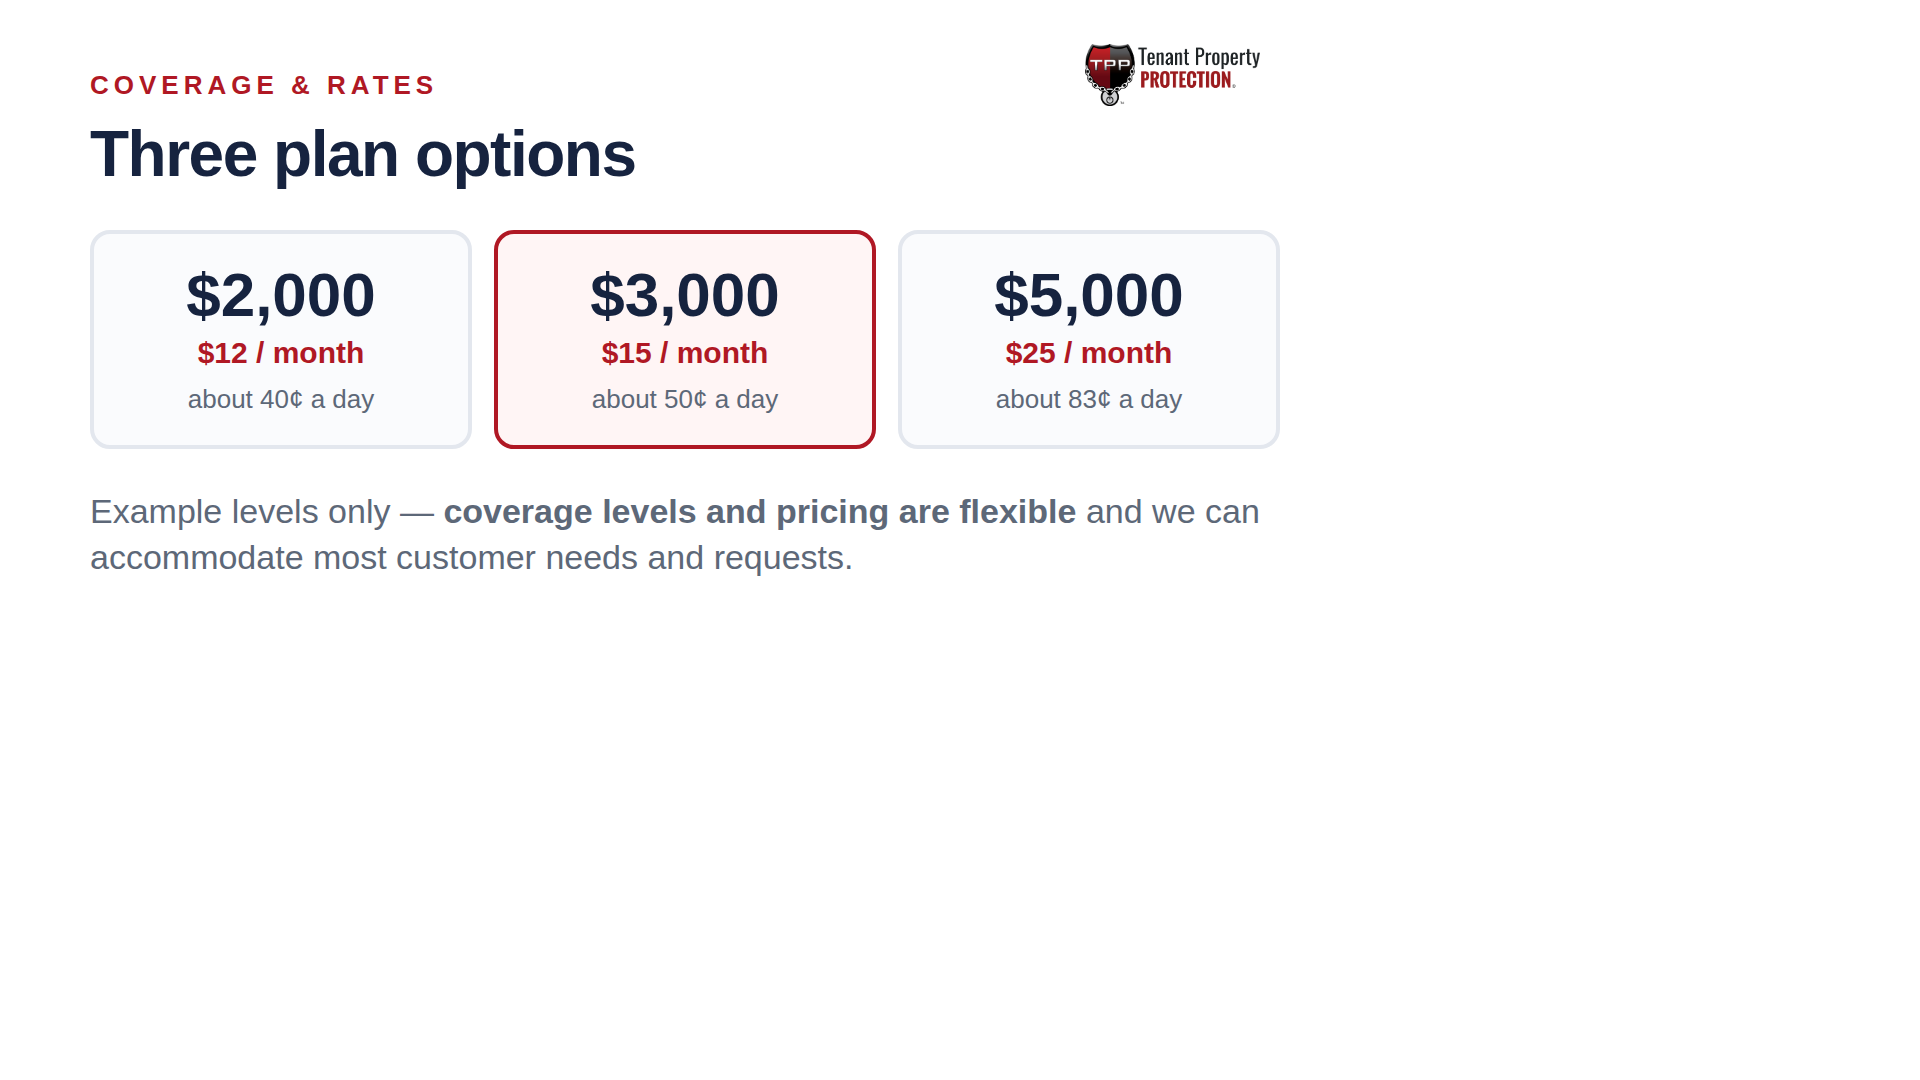
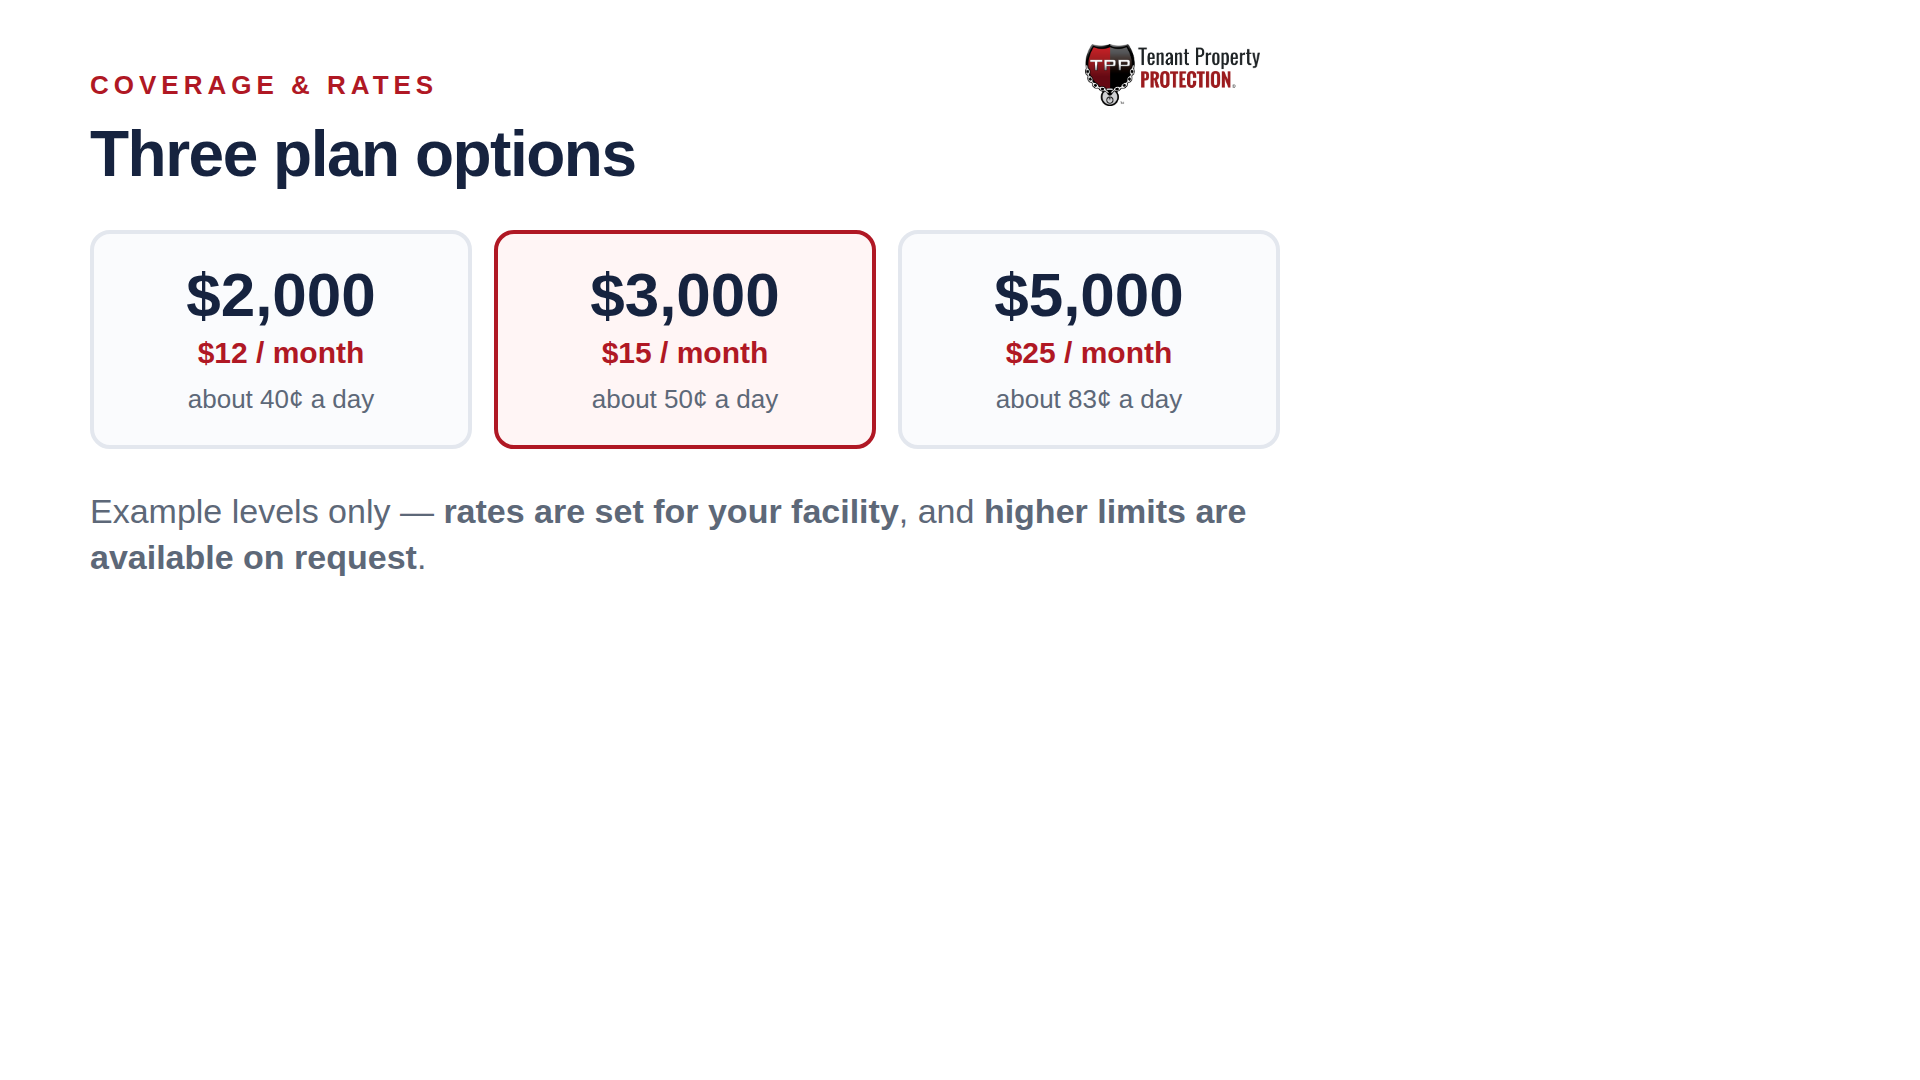
The slides were still saying the old thing too
Sweeping the deck the way the script was swept, five slides still
contradicted today's corrections — and one of them, the rates slide, was
on screen while she said the opposite:

  05-rates        pricing "flexible, we can accommodate most requests"
                  -> rates set for your facility, higher limits on request
  15-optout       10 days -> 10 business days, in the headline and the warning
  16-three-details  three things to verify -> four, with the tenant on the
                  lease added and the note that the names must match
  19-billing      10 days -> 10 business days; and not pro-rated reframed as
                  moving out on the 20th

The four-detail slide gains a card rather than rewording the three it had,
so the layout carries it at the same size.

Claude-Session: https://claude.ai/code/session_01SVBeaJqqY1w1riJ9JWxQJ1

Changed region(s): [[0.0625, 0.4583, 0.6562, 0.55]]

diff --git a/tools/slides/gen_secure.py b/tools/slides/gen_secure.py
@@ -107,8 +107,8 @@ add('05-rates', f"""<img class='brand' src='{LOGO}'>
   <div class='card hi'><div class='amt'>$3,000</div><div class='per'>$15 / month</div><div class='day'>about 50&cent; a day</div></div>
   <div class='card'><div class='amt'>$5,000</div><div class='per'>$25 / month</div><div class='day'>about 83&cent; a day</div></div>
 </div>
-<div class='sub' style='margin-top:40px'>Example levels only &mdash; <b>coverage levels and pricing are flexible</b>
-and we can accommodate most customer needs and requests.</div>""")
+<div class='sub' style='margin-top:40px'>Example levels only &mdash; <b>rates are set for your facility</b>,
+and <b>higher limits are available on request</b>.</div>""")
 
 add('06-present', f"""<img class='brand' src='{LOGO}'>
 <div class='kick'>How to present it</div>
@@ -207,23 +207,24 @@ add('14-claims-timing', f"""<img class='brand' src='{LOGO}'>
 
 add('15-optout', f"""<img class='brand' src='{LOGO}'>
 <div class='kick'>The tenant opt-out process</div>
-<h1>Tenants have <em>10 days</em> from move-in</h1>
+<h1>Tenants have <em>10 business days</em> from move-in</h1>
 <div class='steps'>
   <div class='step'><div class='n'>1</div><p>Tenant submits at <b>myownpolicy.com</b> &mdash; or emails <b>support@myownpolicy.com</b></p></div>
   <div class='step'><div class='n'>2</div><p>Tenant attaches a <b>photo of their declaration page</b></p></div>
   <div class='step'><div class='n'>3</div><p>Our team reviews <b>Monday&ndash;Friday</b> and adds the verified policy</p></div>
 </div>
-<div class='warn'>If 10 days pass with no verified policy, the tenant is <b>automatically enrolled</b> in the protection plan.</div>""")
+<div class='warn'>If 10 business days pass with no verified policy, the tenant is <b>automatically enrolled</b> in the protection plan.</div>""")
 
 add('16-three-details', f"""<img class='brand' src='{LOGO}'>
-<div class='kick'>The photo must show all three</div>
+<div class='kick'>The photo must show all four</div>
 <h1>What we verify on the<br>declaration page</h1>
 <div class='three'>
   <div>The <b>Insurance Carrier</b><br><span style='font-size:26px;color:#cdd6e6'>name as it appears on the policy</span></div>
   <div>The <b>Policy Number</b></div>
   <div>The <b>Expiration Date</b></div>
+  <div>The <b>Tenant on the Lease</b><br><span style='font-size:26px;color:#cdd6e6'>the name on the policy must match</span></div>
 </div>
-<div class='warn'>If any one of the three is missing, cut off or unreadable, the policy <b>cannot be added</b>
+<div class='warn'>If any one of the four is missing, cut off or unreadable, the policy <b>cannot be added</b>
 and the opt-out <b>does not go through</b>.</div>""")
 
 add('17-expiry', f"""<img class='brand' src='{LOGO}'>
@@ -250,10 +251,11 @@ Send your list to Teon Delacruz before launch.</div>""")
 add('19-billing', f"""<img class='brand' src='{LOGO}'>
 <div class='kick'>Opting out later</div>
 <h1>A tenant can opt out<br><em>at any time</em></h1>
-<div class='sub'>The 10 days is the window for avoiding enrollment in the first place &mdash;
+<div class='sub'>The 10 business days is the window for avoiding enrollment in the first place &mdash;
 it is not a cut-off after which they are stuck on the plan.</div>
-<div class='warn' style='margin-top:44px'><b>The plan is not pro-rated.</b> A full month is charged whether the
-tenant is on it for one day or the whole month, and there is no partial refund. Say this plainly at the counter.</div>""")
+<div class='warn' style='margin-top:44px'><b>We do not pro-rate.</b> If a tenant moves out on the 20th, the
+coverage amount is still charged &mdash; whether they stay one day or all month, and there is no partial refund.
+Say this plainly at the counter.</div>""")
 
 add('20-contact', f"""<img class='brand' src='{LOGO}'>
 <img class='photo' src='{AWARD}' style='top:260px;box-shadow:none'>
